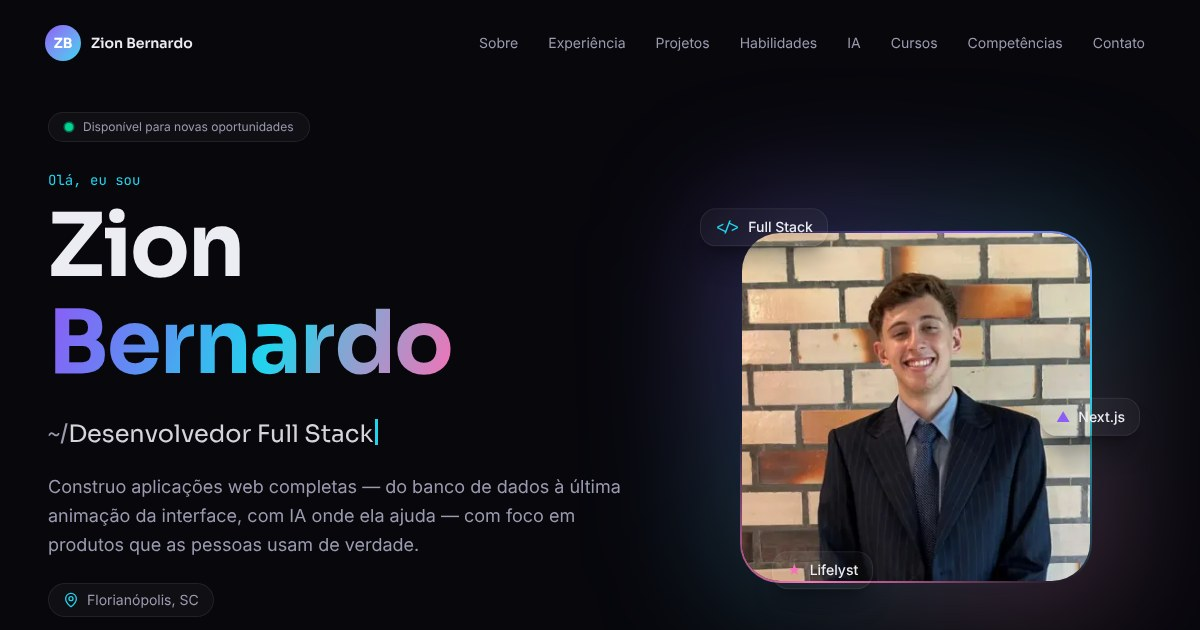
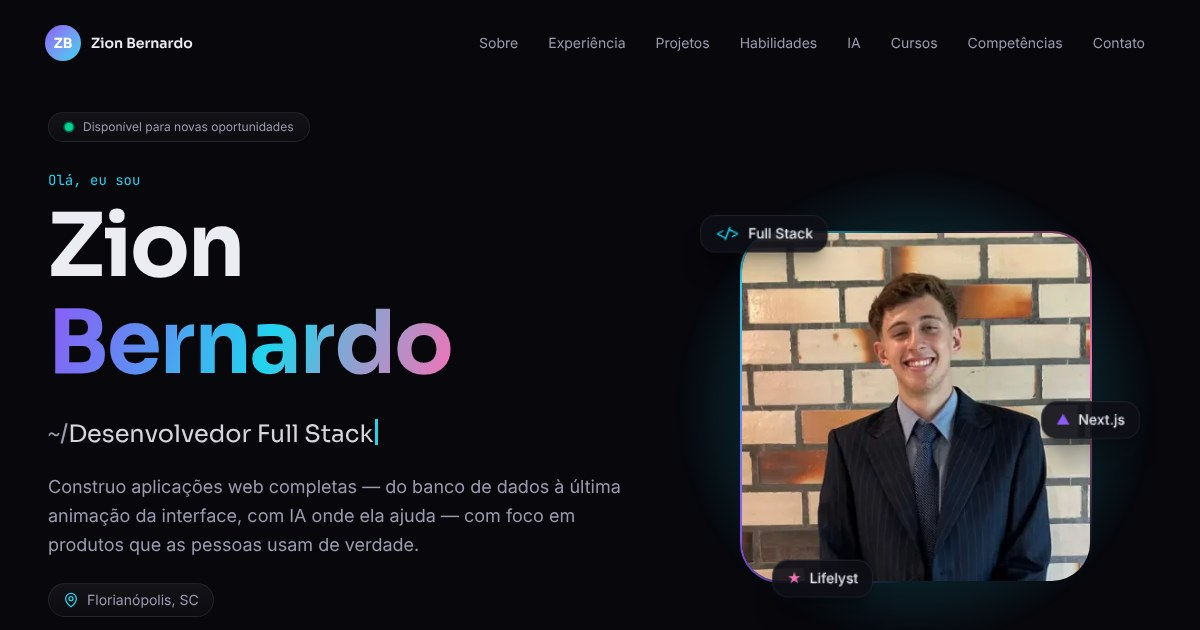
Animacoes fluidas: nada de blur animado, so transform
Medido rolando a pagina com a CPU desacelerada: desktop de 11 para 57 fps,
celular (4x mais lento) de 23 para 51 fps, com os quadros travados caindo
de 63% para 3%.

- Manchas do fundo, brilho da foto, do contato e da IA: degradê radial em
  vez de filter: blur, e as manchas se mexem com CSS (na placa de video).
- vidro sem backdrop-filter: o fundo ja e escuro e borrado, e o navegador
  refazia o borrao de ~60 elementos a cada quadro (22 deles na faixa que
  nunca para). O desfoque de verdade (fosco) fica no menu e nos botoes por
  cima de fotos.
- Holofote do mouse e brilho dos cartoes: um circulo que muda de lugar,
  nao um degrade redesenhado a cada movimento.
- Revelar sem animar blur; selos da foto, seta e pontinhos da Lys
  flutuam em CSS; a maquina de escrever para fora da tela.

Claude-Session: https://claude.ai/code/session_01Jfi8MY2iU1o2wztTt1aiC3

Changed region(s): [[0.555, 0.2714, 0.9558, 0.9651]]

diff --git a/src/components/hero.tsx b/src/components/hero.tsx
@@ -1,7 +1,7 @@
 "use client";
 
 import { ArrowDown, ArrowUpRight, Download, MapPin, Sparkles } from "lucide-react";
-import { motion, useMotionValue, useScroll, useSpring, useTransform } from "motion/react";
+import { motion, useInView, useMotionValue, useScroll, useSpring, useTransform } from "motion/react";
 import Image from "next/image";
 import { useEffect, useRef, useState } from "react";
 import { perfil } from "@/dados/perfil";
@@ -158,9 +158,9 @@ export function Hero() {
         className="absolute bottom-6 left-1/2 hidden -translate-x-1/2 flex-col items-center gap-2 font-mono text-[10px] tracking-[0.3em] text-apagado uppercase sm:flex"
       >
         rolar
-        <motion.span animate={{ y: [0, 6, 0] }} transition={{ duration: 1.6, repeat: Infinity, ease: "easeInOut" }}>
+        <span className="animate-quicar">
           <ArrowDown className="size-4" />
-        </motion.span>
+        </span>
       </motion.a>
     </section>
   );
@@ -201,7 +201,7 @@ function Foto() {
         className="relative size-64 sm:size-80 lg:size-[22rem]"
       >
         {/* Brilho atrás */}
-        <div className="absolute -inset-6 rounded-[3rem] bg-gradient-to-br from-violeta/40 via-ciano/20 to-rosa/30 blur-3xl" />
+        <div className="absolute -inset-16 bg-[radial-gradient(closest-side,rgb(139_92_246/0.45),rgb(34_211_238/0.18)_55%,transparent)]" />
         {/* Borda girando */}
         <div className="absolute inset-0 overflow-hidden rounded-[2.5rem] p-[2px]">
           <div className="absolute -inset-1/2 animate-girar bg-[conic-gradient(from_0deg,transparent_0%,#8b5cf6_15%,#22d3ee_35%,transparent_50%,#f472b6_70%,transparent_85%)]" />
@@ -234,16 +234,18 @@ function Flutuante({ children, className, atraso }: { children: React.ReactNode;
   return (
     <motion.div
       initial={{ opacity: 0, scale: 0.6 }}
-      animate={{ opacity: 1, scale: 1, y: [0, -10, 0] }}
-      transition={{
-        opacity: { delay: 1.2 + atraso * 0.2 },
-        scale: { delay: 1.2 + atraso * 0.2, type: "spring" },
-        y: { duration: 4, repeat: Infinity, ease: "easeInOut", delay: atraso },
-      }}
-      className={`vidro absolute flex items-center gap-2 rounded-2xl px-3.5 py-2 text-xs font-medium whitespace-nowrap shadow-xl shadow-black/30 sm:text-sm ${className}`}
+      animate={{ opacity: 1, scale: 1 }}
+      transition={{ opacity: { delay: 1.2 + atraso * 0.2 }, scale: { delay: 1.2 + atraso * 0.2, type: "spring" } }}
+      className={`absolute ${className}`}
       style={{ z: 40 }}
     >
-      {children}
+      {/* A flutuação é CSS: roda na placa de vídeo, sem JavaScript a cada quadro. */}
+      <div
+        className="flex animate-flutuar border border-borda bg-superficie/90 items-center gap-2 rounded-2xl px-3.5 py-2 text-xs font-medium whitespace-nowrap shadow-xl shadow-black/30 sm:text-sm"
+        style={{ animationDelay: `${atraso}s` }}
+      >
+        {children}
+      </div>
     </motion.div>
   );
 }
@@ -252,8 +254,12 @@ function MaquinaDeEscrever({ frases }: { frases: string[] }) {
   const [indice, setIndice] = useState(0);
   const [letras, setLetras] = useState(0);
   const [apagando, setApagando] = useState(false);
+  // Fora da tela, para de digitar: não tem por que redesenhar o que ninguém vê.
+  const ref = useRef<HTMLSpanElement>(null);
+  const visivel = useInView(ref);
 
   useEffect(() => {
+    if (!visivel) return;
     const frase = frases[indice % frases.length];
     let espera = apagando ? 35 : 70;
     if (!apagando && letras === frase.length) espera = 1800;
@@ -267,11 +273,11 @@ function MaquinaDeEscrever({ frases }: { frases: string[] }) {
       } else setLetras((n) => n + (apagando ? -1 : 1));
     }, espera);
     return () => clearTimeout(t);
-  }, [frases, indice, letras, apagando]);
+  }, [frases, indice, letras, apagando, visivel]);
 
   const frase = frases[indice % frases.length];
   return (
-    <span aria-label={frases.join(", ")}>
+    <span ref={ref} aria-label={frases.join(", ")}>
       <span aria-hidden className="text-suave">
         ~/
       </span>

diff --git a/src/components/fundo.tsx b/src/components/fundo.tsx
@@ -1,18 +1,22 @@
 "use client";
 
-import { motion, useMotionTemplate, useMotionValue, useSpring } from "motion/react";
+import { motion, useMotionValue, useSpring } from "motion/react";
 import { useEffect } from "react";
 
 /**
  * Fundo fixo do site inteiro: três manchas de luz que flutuam devagar, uma
  * grade fina que some nas bordas e um holofote que segue o mouse.
+ *
+ * Tudo aqui se mexe só com `transform` e nada usa `filter: blur`: as manchas
+ * são degradês radiais (parecem borradas, mas não custam nada) e o holofote é
+ * um círculo que muda de lugar, em vez de um degradê redesenhado a cada
+ * movimento do mouse.
  */
 export function Fundo() {
-  const mx = useMotionValue(-1000);
-  const my = useMotionValue(-1000);
+  const mx = useMotionValue(-2000);
+  const my = useMotionValue(-2000);
   const x = useSpring(mx, { stiffness: 120, damping: 30 });
   const y = useSpring(my, { stiffness: 120, damping: 30 });
-  const holofote = useMotionTemplate`radial-gradient(520px circle at ${x}px ${y}px, rgb(139 92 246 / 0.09), transparent 70%)`;
 
   useEffect(() => {
     if (!window.matchMedia("(pointer: fine)").matches) return;
@@ -26,9 +30,9 @@ export function Fundo() {
 
   return (
     <div aria-hidden className="pointer-events-none fixed inset-0 -z-10 overflow-hidden">
-      <Mancha className="-top-40 -left-32 size-[34rem] bg-violeta/25" x={[0, 120, -40, 0]} y={[0, 80, 160, 0]} duracao={26} />
-      <Mancha className="top-1/3 -right-40 size-[30rem] bg-ciano/15" x={[0, -140, -60, 0]} y={[0, 100, -80, 0]} duracao={32} />
-      <Mancha className="-bottom-48 left-1/4 size-[28rem] bg-rosa/12" x={[0, 100, -120, 0]} y={[0, -90, -30, 0]} duracao={38} />
+      <Mancha className="-top-64 -left-56 size-[48rem] animate-mancha-1" cor="139 92 246 / 0.32" />
+      <Mancha className="top-[20%] -right-64 size-[44rem] animate-mancha-2" cor="34 211 238 / 0.19" />
+      <Mancha className="-bottom-72 left-[15%] size-[42rem] animate-mancha-3" cor="244 114 182 / 0.15" />
 
       <div
         className="absolute inset-0 opacity-[0.35]"
@@ -39,17 +43,19 @@ export function Fundo() {
           maskImage: "radial-gradient(ellipse 70% 60% at 50% 30%, #000 30%, transparent 100%)",
         }}
       />
-      <motion.div className="absolute inset-0" style={{ background: holofote }} />
+      <motion.div
+        className="absolute top-0 left-0 -mt-[520px] -ml-[520px] size-[1040px] rounded-full will-change-transform"
+        style={{ x, y, background: "radial-gradient(closest-side, rgb(139 92 246 / 0.09), transparent 70%)" }}
+      />
     </div>
   );
 }
 
-function Mancha({ className, x, y, duracao }: { className: string; x: number[]; y: number[]; duracao: number }) {
+function Mancha({ className, cor }: { className: string; cor: string }) {
   return (
-    <motion.div
-      className={`absolute rounded-full blur-[110px] ${className}`}
-      animate={{ x, y }}
-      transition={{ duration: duracao, repeat: Infinity, ease: "easeInOut" }}
+    <div
+      className={`absolute rounded-full will-change-transform ${className}`}
+      style={{ background: `radial-gradient(closest-side, rgb(${cor}), transparent)` }}
     />
   );
 }

diff --git a/src/components/projetos.tsx b/src/components/projetos.tsx
@@ -130,7 +130,7 @@ function CartaoProjeto({ projeto, indice, abrir }: { projeto: Projeto; indice: n
           )}
           <div className="absolute inset-0 bg-gradient-to-t from-fundo via-fundo/10 to-transparent" />
           {projeto.imagens.length > 1 && (
-            <span className="vidro absolute top-4 right-4 inline-flex items-center gap-1.5 rounded-full px-2.5 py-1 text-xs text-texto/90">
+            <span className="fosco absolute top-4 right-4 inline-flex items-center gap-1.5 rounded-full px-2.5 py-1 text-xs text-texto/90">
               <Images className="size-3.5" /> {projeto.imagens.length}
             </span>
           )}
@@ -255,7 +255,7 @@ function Detalhes({ projeto, fechar }: { projeto: Projeto; fechar: () => void })
           type="button"
           onClick={fechar}
           aria-label="Fechar"
-          className="vidro absolute top-4 right-4 z-20 grid size-10 place-items-center rounded-full transition-transform hover:rotate-90"
+          className="fosco absolute top-4 right-4 z-20 grid size-10 place-items-center rounded-full transition-transform hover:rotate-90"
         >
           <X className="size-5" />
         </button>
@@ -312,7 +312,7 @@ function Detalhes({ projeto, fechar }: { projeto: Projeto; fechar: () => void })
                   type="button"
                   onClick={() => ir(-1)}
                   aria-label="Imagem anterior"
-                  className="vidro absolute top-1/2 left-3 z-10 grid size-10 -translate-y-1/2 place-items-center rounded-full hover:bg-white/10"
+                  className="fosco absolute top-1/2 left-3 z-10 grid size-10 -translate-y-1/2 place-items-center rounded-full hover:bg-white/10"
                 >
                   <ChevronLeft className="size-5" />
                 </button>
@@ -320,7 +320,7 @@ function Detalhes({ projeto, fechar }: { projeto: Projeto; fechar: () => void })
                   type="button"
                   onClick={() => ir(1)}
                   aria-label="Próxima imagem"
-                  className="vidro absolute top-1/2 right-3 z-10 grid size-10 -translate-y-1/2 place-items-center rounded-full hover:bg-white/10"
+                  className="fosco absolute top-1/2 right-3 z-10 grid size-10 -translate-y-1/2 place-items-center rounded-full hover:bg-white/10"
                 >
                   <ChevronRight className="size-5" />
                 </button>

diff --git a/src/app/globals.css b/src/app/globals.css
@@ -18,6 +18,12 @@
   --animate-girar: girar 8s linear infinite;
   --animate-faixa: faixa 40s linear infinite;
   --animate-piscar: piscar 1s steps(1) infinite;
+  --animate-flutuar: flutuar 4s ease-in-out infinite;
+  --animate-quicar: quicar 1.6s ease-in-out infinite;
+  --animate-pulinho: pulinho 0.6s ease-in-out infinite;
+  --animate-mancha-1: mancha-1 26s ease-in-out infinite;
+  --animate-mancha-2: mancha-2 32s ease-in-out infinite;
+  --animate-mancha-3: mancha-3 38s ease-in-out infinite;
 
   @keyframes girar {
     to { transform: rotate(360deg); }
@@ -27,6 +33,28 @@
   }
   @keyframes piscar {
     50% { opacity: 0; }
+  }
+  @keyframes flutuar {
+    50% { transform: translateY(-10px); }
+  }
+  @keyframes quicar {
+    50% { transform: translateY(6px); }
+  }
+  @keyframes pulinho {
+    50% { transform: translateY(-4px); }
+  }
+  /* As manchas do fundo: só transform, que a placa de vídeo anima sozinha. */
+  @keyframes mancha-1 {
+    33% { transform: translate3d(120px, 80px, 0); }
+    66% { transform: translate3d(-40px, 160px, 0); }
+  }
+  @keyframes mancha-2 {
+    33% { transform: translate3d(-140px, 100px, 0); }
+    66% { transform: translate3d(-60px, -80px, 0); }
+  }
+  @keyframes mancha-3 {
+    33% { transform: translate3d(100px, -90px, 0); }
+    66% { transform: translate3d(-120px, -30px, 0); }
   }
 }
 
@@ -60,11 +88,22 @@ section[id] {
   color: transparent;
 }
 
+/*
+ * Vidro sem desfoque: o fundo já é escuro e borrado, então o desfoque quase
+ * não aparece, mas custa caro — o navegador refaz o borrão a cada quadro.
+ * O desfoque de verdade (`fosco`) fica só onde se vê: o menu e os botões
+ * por cima de fotos.
+ */
 @utility vidro {
-  background: rgb(255 255 255 / 0.035);
+  background: linear-gradient(180deg, rgb(255 255 255 / 0.05), rgb(255 255 255 / 0.025));
   border: 1px solid var(--color-borda);
-  backdrop-filter: blur(16px);
-  -webkit-backdrop-filter: blur(16px);
+}
+
+@utility fosco {
+  background: rgb(12 12 20 / 0.55);
+  border: 1px solid var(--color-borda);
+  backdrop-filter: blur(14px) saturate(140%);
+  -webkit-backdrop-filter: blur(14px) saturate(140%);
 }
 
 /* Faixa de ferramentas: some nas pontas em vez de cortar seco. */

diff --git a/src/components/ui.tsx b/src/components/ui.tsx
@@ -1,6 +1,6 @@
 "use client";
 
-import { motion, useMotionTemplate, useMotionValue, type HTMLMotionProps } from "motion/react";
+import { motion, useMotionValue, type HTMLMotionProps } from "motion/react";
 import type { ReactNode } from "react";
 
 const suave = [0.22, 1, 0.36, 1] as const;
@@ -14,8 +14,8 @@ export function Revelar({
 }: { children: ReactNode; atraso?: number } & HTMLMotionProps<"div">) {
   return (
     <motion.div
-      initial={{ opacity: 0, y: 28, filter: "blur(6px)" }}
-      whileInView={{ opacity: 1, y: 0, filter: "blur(0px)" }}
+      initial={{ opacity: 0, y: 28 }}
+      whileInView={{ opacity: 1, y: 0 }}
       viewport={{ once: true, margin: "-80px" }}
       transition={{ duration: 0.7, ease: suave, delay: atraso }}
       className={className}
@@ -73,9 +73,8 @@ export function CartaoBrilho({
   /** RGB separado por espaço, ex.: "34 211 238". */
   cor?: string;
 }) {
-  const x = useMotionValue(-400);
-  const y = useMotionValue(-400);
-  const brilho = useMotionTemplate`radial-gradient(360px circle at ${x}px ${y}px, rgb(${cor} / 0.16), transparent 70%)`;
+  const x = useMotionValue(0);
+  const y = useMotionValue(0);
 
   return (
     <div
@@ -84,13 +83,14 @@ export function CartaoBrilho({
         x.set(e.clientX - caixa.left);
         y.set(e.clientY - caixa.top);
       }}
-      onPointerLeave={() => {
-        x.set(-400);
-        y.set(-400);
-      }}
       className={`group vidro relative overflow-hidden rounded-2xl transition-colors duration-300 hover:border-white/15 ${className}`}
     >
-      <motion.div aria-hidden className="pointer-events-none absolute inset-0" style={{ background: brilho }} />
+      {/* O brilho é um círculo que muda de lugar (transform), não um degradê redesenhado. */}
+      <motion.div
+        aria-hidden
+        className="pointer-events-none absolute top-0 left-0 -mt-[360px] -ml-[360px] size-[720px] rounded-full opacity-0 transition-opacity duration-300 group-hover:opacity-100"
+        style={{ x, y, background: `radial-gradient(closest-side, rgb(${cor} / 0.16), transparent 70%)` }}
+      />
       <div className="relative h-full">{children}</div>
     </div>
   );

diff --git a/src/components/inteligencia-artificial.tsx b/src/components/inteligencia-artificial.tsx
@@ -143,7 +143,7 @@ function Conversa() {
 
   return (
     <div ref={ref} className="relative">
-      <div aria-hidden className="absolute -inset-3 -z-10 rounded-[2rem] sm:-inset-6 bg-gradient-to-br from-violeta/20 via-transparent to-ciano/15 blur-2xl" />
+      <div aria-hidden className="absolute -inset-3 -z-10 bg-[radial-gradient(ellipse_at_30%_30%,rgb(139_92_246/0.2),transparent_60%),radial-gradient(ellipse_at_75%_80%,rgb(34_211_238/0.14),transparent_60%)] sm:-inset-10" />
       <div className="vidro overflow-hidden rounded-3xl">
         <div className="flex items-center gap-3 border-b border-borda px-5 py-4">
           <span className="grid size-9 place-items-center rounded-full bg-gradient-to-br from-violeta to-ciano">
@@ -175,11 +175,10 @@ function Conversa() {
                 aria-label="Lys está pensando"
               >
                 {[0, 1, 2].map((p) => (
-                  <motion.span
+                  <span
                     key={p}
-                    className="size-1.5 rounded-full bg-suave"
-                    animate={{ y: [0, -4, 0] }}
-                    transition={{ duration: 0.6, repeat: Infinity, delay: p * 0.12 }}
+                    className="size-1.5 animate-pulinho rounded-full bg-suave"
+                    style={{ animationDelay: `${p * 0.12}s` }}
                   />
                 ))}
               </motion.div>

diff --git a/src/components/contato.tsx b/src/components/contato.tsx
@@ -26,7 +26,7 @@ export function Contato() {
         <div className="relative overflow-hidden rounded-[2rem] border border-borda bg-gradient-to-br from-violeta/15 via-superficie to-ciano/10 px-6 py-16 text-center sm:px-12 md:py-24">
           <motion.div
             aria-hidden
-            className="absolute -top-1/2 left-1/2 size-[36rem] -translate-x-1/2 rounded-full bg-violeta/20 blur-[120px]"
+            className="absolute -top-1/2 left-1/2 size-[50rem] -translate-x-1/2 rounded-full bg-[radial-gradient(closest-side,rgb(139_92_246/0.2),transparent)]"
             animate={{ scale: [1, 1.15, 1], opacity: [0.6, 1, 0.6] }}
             transition={{ duration: 8, repeat: Infinity, ease: "easeInOut" }}
           />

diff --git a/src/components/habilidades.tsx b/src/components/habilidades.tsx
@@ -43,8 +43,8 @@ export function Habilidades({ linguagens, ferramentas }: { linguagens: Linguagem
               >
                 <div
                   aria-hidden
-                  className="absolute -top-10 -right-10 size-28 rounded-full opacity-0 blur-2xl transition-opacity duration-500 group-hover:opacity-40"
-                  style={{ background: cor }}
+                  className="absolute -top-16 -right-16 size-40 rounded-full opacity-0 transition-opacity duration-500 group-hover:opacity-40"
+                  style={{ background: `radial-gradient(closest-side, ${cor}, transparent)` }}
                 />
                 <div className="relative flex items-center gap-3">
                   <span

diff --git a/src/components/navegacao.tsx b/src/components/navegacao.tsx
@@ -72,7 +72,7 @@ export function Navegacao() {
       >
         <nav
           className={`flex w-full max-w-6xl items-center justify-between rounded-full px-3 py-2 transition-all duration-500 sm:px-4 ${
-            rolou || menuAberto ? "vidro shadow-2xl shadow-black/40" : "border border-transparent"
+            rolou || menuAberto ? "fosco shadow-2xl shadow-black/40" : "border border-transparent"
           }`}
         >
           <a
